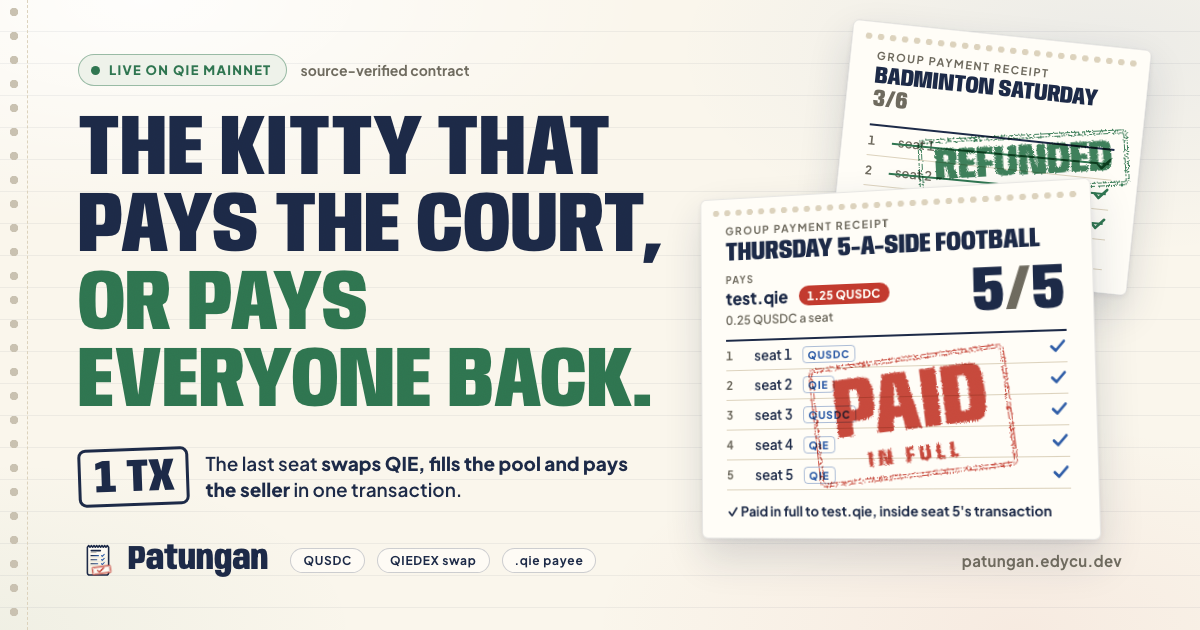
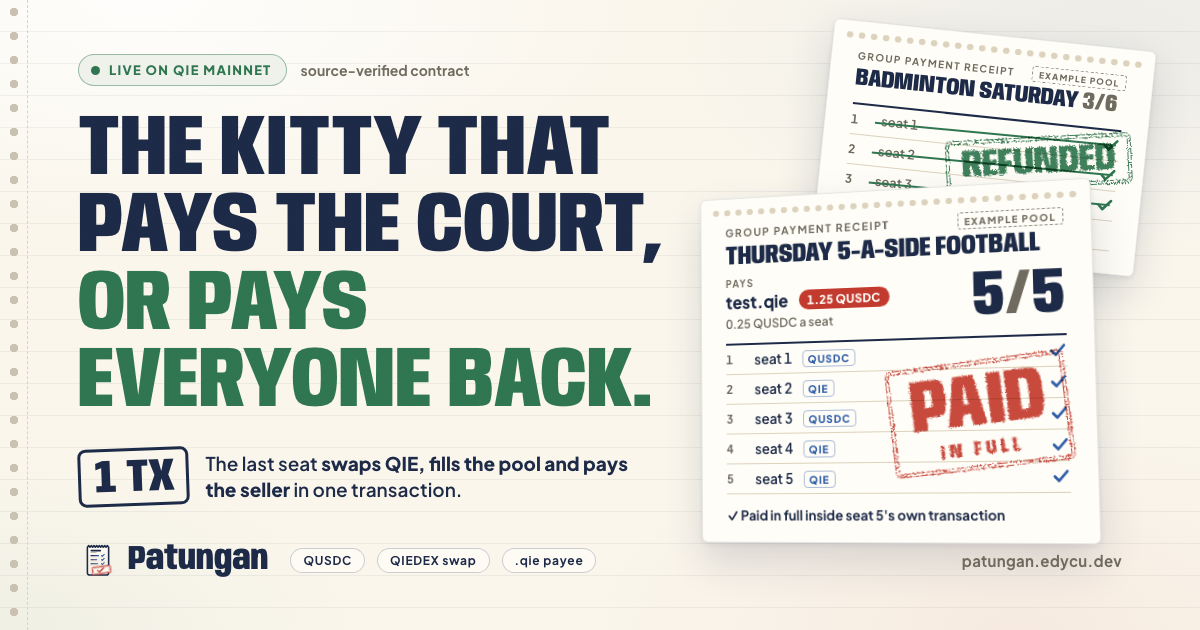
feat: full social card meta on /pitch and /judge, og.png v=20261114r2
/pitch/ had og:image only (X fell back to the small summary card); it and /judge
now carry og:title/description/url/image size+alt and twitter:summary_large_image.
og.png refreshed from the r2 export; alt text says the receipts are examples.

Changed region(s): [[0.5858, 0.0302, 0.9867, 0.8746]]

diff --git a/web/public/pitch/index.html b/web/public/pitch/index.html
@@ -12,7 +12,19 @@
 <meta name="viewport" content="width=device-width, initial-scale=1" />
 <title>Patungan · pitch deck</title>
 <meta name="description" content="Patungan pitch deck: group payments with a deadline on QIE. The last seat pays the payee; a missed deadline refunds everyone." />
-<meta property="og:image" content="https://patungan.edycu.dev/og.png?v=20261114r1" />
+<meta property="og:title" content="Patungan · pitch deck" />
+<meta property="og:description" content="Group payments with a deadline on QIE: the last seat pays the payee in the same transaction, and a missed deadline refunds everyone." />
+<meta property="og:type" content="website" />
+<meta property="og:site_name" content="Patungan" />
+<meta property="og:url" content="https://patungan.edycu.dev/pitch/" />
+<meta property="og:image" content="https://patungan.edycu.dev/og.png?v=20261114r2" />
+<meta property="og:image:width" content="1200" />
+<meta property="og:image:height" content="630" />
+<meta property="og:image:alt" content="The kitty that pays the court, or pays everyone back: an example five-seat Patungan receipt stamped PAID IN FULL in front of an example six-seat receipt stamped REFUNDED" />
+<meta name="twitter:card" content="summary_large_image" />
+<meta name="twitter:title" content="Patungan · pitch deck" />
+<meta name="twitter:description" content="The last seat pays the payee in the same transaction. A missed deadline refunds everyone." />
+<meta name="twitter:image" content="https://patungan.edycu.dev/og.png?v=20261114r2" />
 <meta name="theme-color" content="#FAF6EC" />
 <link rel="icon" href="/favicon.ico" sizes="32x32" />
 <link rel="icon" type="image/svg+xml" href="/icon.svg" />

diff --git a/web/app.html b/web/app.html
@@ -10,14 +10,14 @@
     <meta property="og:description" content="The last seat pays the payee in the same transaction. A missed deadline refunds everyone. Live on QIE mainnet." />
     <meta property="og:type" content="website" />
     <meta property="og:site_name" content="Patungan" />
-    <meta property="og:image" content="https://patungan.edycu.dev/og.png?v=20261114r1" />
+    <meta property="og:image" content="https://patungan.edycu.dev/og.png?v=20261114r2" />
     <meta property="og:image:width" content="1200" />
     <meta property="og:image:height" content="630" />
-    <meta property="og:image:alt" content="The kitty that pays the court, or pays everyone back: a five-seat Patungan receipt stamped PAID IN FULL in front of a six-seat receipt stamped REFUNDED" />
+    <meta property="og:image:alt" content="The kitty that pays the court, or pays everyone back: an example five-seat Patungan receipt stamped PAID IN FULL in front of an example six-seat receipt stamped REFUNDED" />
     <meta name="twitter:card" content="summary_large_image" />
     <meta name="twitter:title" content="Patungan · group payments on QIE" />
     <meta name="twitter:description" content="The last seat pays the payee in the same transaction. A missed deadline refunds everyone." />
-    <meta name="twitter:image" content="https://patungan.edycu.dev/og.png?v=20261114r1" />
+    <meta name="twitter:image" content="https://patungan.edycu.dev/og.png?v=20261114r2" />
     <link rel="icon" href="/favicon.ico" sizes="32x32" />
     <link rel="icon" type="image/svg+xml" href="/icon.svg" />
     <link rel="apple-touch-icon" href="/icon-512.png" />

diff --git a/web/judge.html b/web/judge.html
@@ -7,8 +7,17 @@
 <meta name="description" content="The 30-second path through Patungan on QIE mainnet: a PAID pool, a REFUNDED pool, the verified contract and the transactions behind them. No wallet needed." />
 <meta property="og:title" content="Patungan · for judges" />
 <meta property="og:description" content="The last seat pays the seller in the same transaction; a missed deadline refunds everyone. Live on QIE mainnet." />
-<meta property="og:image" content="https://patungan.edycu.dev/og.png?v=20261114r1" />
+<meta property="og:type" content="website" />
+<meta property="og:site_name" content="Patungan" />
+<meta property="og:url" content="https://patungan.edycu.dev/judge" />
+<meta property="og:image" content="https://patungan.edycu.dev/og.png?v=20261114r2" />
+<meta property="og:image:width" content="1200" />
+<meta property="og:image:height" content="630" />
+<meta property="og:image:alt" content="The kitty that pays the court, or pays everyone back: an example five-seat Patungan receipt stamped PAID IN FULL in front of an example six-seat receipt stamped REFUNDED" />
 <meta name="twitter:card" content="summary_large_image" />
+<meta name="twitter:title" content="Patungan · for judges" />
+<meta name="twitter:description" content="The last seat pays the seller in the same transaction; a missed deadline refunds everyone. Live on QIE mainnet." />
+<meta name="twitter:image" content="https://patungan.edycu.dev/og.png?v=20261114r2" />
 <link rel="icon" href="/favicon.ico" sizes="32x32" />
 <link rel="icon" type="image/svg+xml" href="/icon.svg" />
 <link rel="apple-touch-icon" href="/icon-512.png" />

diff --git a/web/index.html b/web/index.html
@@ -12,14 +12,14 @@
 <meta property="og:type" content="website" />
 <meta property="og:site_name" content="Patungan" />
 <meta property="og:url" content="https://patungan.edycu.dev/" />
-<meta property="og:image" content="https://patungan.edycu.dev/og.png?v=20261114r1" />
+<meta property="og:image" content="https://patungan.edycu.dev/og.png?v=20261114r2" />
 <meta property="og:image:width" content="1200" />
 <meta property="og:image:height" content="630" />
-<meta property="og:image:alt" content="The kitty that pays the court, or pays everyone back: a five-seat Patungan receipt stamped PAID IN FULL in front of a six-seat receipt stamped REFUNDED" />
+<meta property="og:image:alt" content="The kitty that pays the court, or pays everyone back: an example five-seat Patungan receipt stamped PAID IN FULL in front of an example six-seat receipt stamped REFUNDED" />
 <meta name="twitter:card" content="summary_large_image" />
 <meta name="twitter:title" content="Patungan · the kitty that pays the court, or pays everyone back" />
 <meta name="twitter:description" content="The last seat pays the payee in the same transaction. A missed deadline refunds everyone." />
-<meta name="twitter:image" content="https://patungan.edycu.dev/og.png?v=20261114r1" />
+<meta name="twitter:image" content="https://patungan.edycu.dev/og.png?v=20261114r2" />
 <link rel="icon" href="/favicon.ico" sizes="32x32" />
 <link rel="icon" type="image/svg+xml" href="/icon.svg" />
 <link rel="apple-touch-icon" href="/icon-512.png" />
